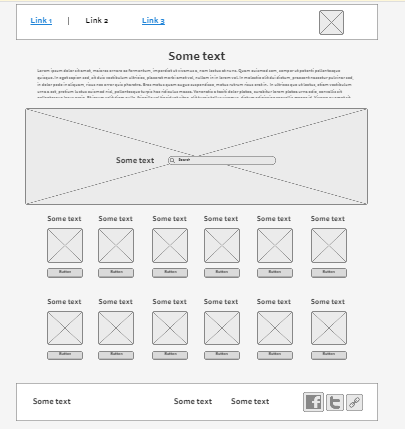
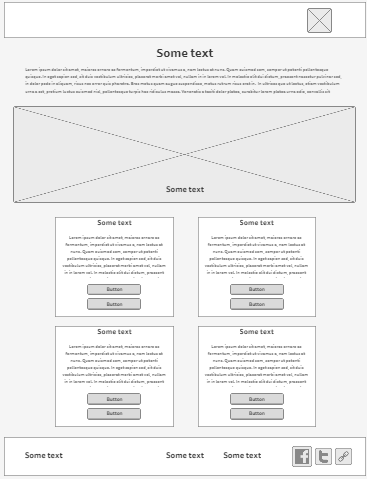
editing songlyrics

diff --git a/smwp/songlyrics.html b/smwp/songlyrics.html
@@ -27,43 +27,20 @@
                 <img id='chorus' src="images/rsz_pexels-cottonbro-7569413.jpg" alt="a chorus">>
             </div>
         </div>
-        <main class='home-grid'>
-            <h1>General Questions</h1>
-            <section class='general-questions'>
-                <h2>What are the responsibilities of a music director?</h2>
-                <p>They plan, teach, and direct the music for Sharing Time, including the songs that will be part of the children's presentation in sacrament meeting.
-                    They help with music in nursery classes and other Primary classes as requested.
-                    They can organize and direct a children's choir, as requested.</p>
+        <main class='songlyrics-grid'>
+            <section class='songs'>
+                <h2>Jesus Has Risen</h2>
+                <p>Look at this! you can find the lyrics of "Jesus has risen" with some representative images.
+                    Image uploaded by Wendy forde to pinterest. Original image obtained from the official facebook page of the primary. This song is found on page 44 from the Children's Songbook, it teaches us why we celebrate Easter every year all over the world.</p>
+                <a href="https://www.pinterest.es/pin/592153051018826854/">IN PINTEREST</a>
+                <a href="https://www.churchofjesuschrist.org/music/library/childrens-songbook/jesus-has-risen?lang=eng">IN THE OFFICIAL CHURCH WEBSITE</a>
             </section>
-            <section class='general-questions'>
-                <h2>Why is it important to keep the spirit when singing?</h2>
-                <p>The melodies, words, and messages of Primary songs can teach children the doctrines of the gospel and remain in their hearts throughout their lives. But you need the Holy Spirit for this to happen.</p>
+            <section class='songs'>
+                <h2>When I Am Baptized</h2>
+                <p>Here you can find the lyrics of "When I Am Baptized" with a simple design but with representative images that will help children remember parts of the song without needing to see the lyrics. This song will help children understand the importance of baptism and what it means, it also helps us to recognize the beauty of our planet. Lettering with design by Sheree Peterson, download it in dropbox</p>
+                <a href="https://www.dropbox.com/s/9koj20g57n8c7g1/When%20I%20Am%20Baptized.pdf?dl=0">IN DROPBOX</a>
+                <a href="https://www.churchofjesuschrist.org/music/library/childrens-songbook/when-i-am-baptized?lang=eng">IN THE OFFICIAL CHURCH WEBSITE</a>
             </section>
-            <section class='general-questions'>
-                <h2>How to get children's attention?</h2>
-                <p>When the children's attention begins to decrease move on to something else. Close your singing time with a different activity or form of singing that you have previously used that day.</p>
-            </section>
-            <div id="feedback"></div>
-            <h1>Leave a comment</h1>
-            <form action="/my-handling-form-page" method="post">
-		     	<ul>
-			     	<li>
-					    <label for="name">Name:</label>
-				    	<input type="text" id="name" name="user_name" />
-				    </li>
-				    <li>
-				    	<label for="mail">E-mail:</label>
-				    	<input type="email" id="mail" name="user_mail" />
-				    </li>
-			    	<li>
-				     	<label for="msg">Message:</label>
-				     	<textarea id="msg" name="user_message"></textarea>
-			    	</li>
-			    	<li class="button">
-				    	<button type="submit">Send your message</button>
-			    	</li>
-	    		</ul>
-	    	</form>
         </main>
         <footer>
             <h3>Sud Musical Web Page &copy; 2022 - Diane Steffy Chambi Gutierrez</h3>
